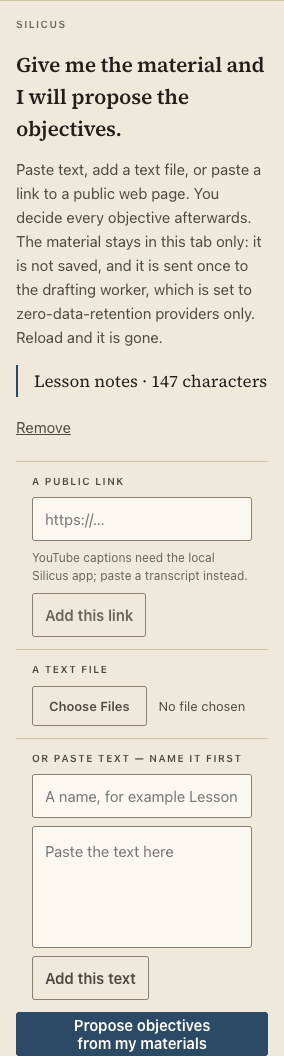
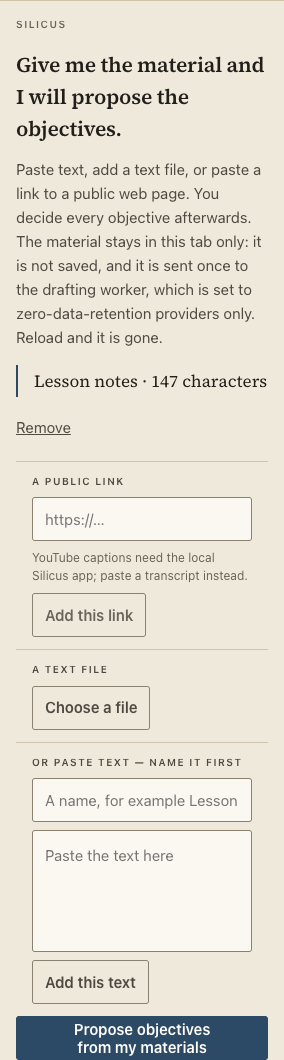
test+docs(narrow): the seventh defect, and the wide screen did not move
narrow-width.test.tsx grows two tests (272 total): the file chooser is out of the layout
and driven by a label, and it is still a labelled, reachable control.

docs/design/narrow-width.md records the seventh defect (the native control's truncated
status text, which the harness cannot measure), the wide-screen evidence - the 1440px
surface geometry is identical to the pre-fix build in all five states, and three of the
browser smoke's four full-page 1440px screenshots are byte-identical - the refreshed
proof screenshots, and the one new string ("Choose a file").

diff --git a/frontend/src/live/narrow-width.test.tsx b/frontend/src/live/narrow-width.test.tsx
@@ -78,7 +78,7 @@ describe("narrow widths — the stylesheet contract", () => {
 
   it("no control sets its own minimum width, so nothing pushes past the viewport", () => {
     const pairs: [string, string, string[]][] = [
-      ["OnboardingChat", intake, [".box", ".send", ".quiet", ".fileInput"]],
+      ["OnboardingChat", intake, [".box", ".send", ".quiet"]],
       ["LiveCourse", live, [".primaryButton"]],
       ["CourseLibrary", library, [".open"]],
     ];
@@ -87,9 +87,19 @@ describe("narrow widths — the stylesheet contract", () => {
         expect(rule(css, selector), `${name} ${selector}`).toMatch(/max-width:\s*100%/);
       }
     }
-    // A text field and the file chooser both take the column's width instead of their default.
+    // A text field takes the column's width instead of its own ~20-character default.
     expect(rule(intake, ".box")).toMatch(/width:\s*100%/);
-    expect(narrowBlock(intake)).toMatch(/\.fileInput\s*\{[^}]*width:\s*100%/);
+  });
+
+  it("the file chooser is a house-styled button, so no width can truncate its status text", () => {
+    // Chrome renders the native control's "No file chosen" and truncates it to "N...n" in a narrow
+    // column. The browser's own control is out of the layout and driven by a quiet label, the way
+    // the record band's Import is.
+    expect(rule(intake, ".fileHidden")).toMatch(/position:\s*absolute/);
+    expect(rule(intake, ".fileHidden")).toMatch(/width:\s*1px/);
+    expect(intake).toMatch(/\.fileHidden:focus-visible\s*\+\s*\.quiet/);
+    // A label used as a button must be a box for its 44px minimum to mean anything.
+    expect(rule(intake, ".quiet")).toMatch(/display:\s*inline-flex/);
   });
 
   it("a card that can sit in a row of buttons is allowed to shrink", () => {
@@ -129,6 +139,14 @@ describe("narrow widths — the honesty copy is untouched", () => {
   it("without zero retention the panel says the plain truth, not the claim", () => {
     render(<MaterialsPanel busy={false} zdr={null} onPropose={() => {}} />);
     expect(pageText()).toContain("under that provider's normal data-retention terms (not zero-retention), so use public material or material you may share");
+  });
+
+  it("the material panel's file chooser is still a labelled, reachable control", () => {
+    render(<MaterialsPanel busy={false} zdr onPropose={() => {}} />);
+    const chooser = screen.getByLabelText("A text file");
+    expect(chooser).toBe(document.querySelector('input[type="file"]'));
+    // The quiet label that drives it is on the page and names the act.
+    expect(screen.getByText("Choose a file")).toBeInTheDocument();
   });
 
   it("the student chat still says an answer is not evidence of learning", () => {

diff --git a/docs/design/narrow-width.md b/docs/design/narrow-width.md
@@ -50,6 +50,7 @@ belong to the parallel round.
 | 4 | Course library row | 320 px | Row content 214 > box 182 | The row's text column had no `min-width: 0`, so the long title's minimum width pushed the row |
 | 5 | Materials panel | 320 px | The whole section: left 52 → right **328** (276 px) where 216 px was available; the file input alone was 276 px | `input[type=file]`'s own default width set the card's minimum, and the panel — a flex item in a row of buttons — could not shrink below it |
 | 6 | Pinned copies row | 380 px | Status span left 290 → right **402**; row content 328 > box 234 | `.pinRow` is a four-column grid, `3rem 9rem 7rem 1fr` — 340 px of fixed columns, wider than the viewport |
+| 7 | Material panel, file chooser | 320 px | The browser's own "No file chosen" status truncated to **`N...n`** | Chrome's native file control has no room for its status text in a ~190 px column. Not caught by the harness: the text lives in the control's shadow DOM, so no `scrollWidth` reports it — found by looking at the screenshot |
 
 | State | 320 | 380 | 480 | 768 | 1440 |
 |---|---|---|---|---|---|
@@ -100,6 +101,21 @@ digest and what it says.
 the cards' from 20px to 16px, and the page's vertical pauses shrink — so a 320px window keeps a ~190px
 measure inside the card and a ~224px column on the page instead of spending 60% of its width on margins.
 
+**The file chooser is a house-styled button.** The browser's own control cannot survive a narrow column: at
+320px Chrome truncated its "No file chosen" status to `N...n`. It is now out of the layout and driven by a
+quiet **Choose a file** label — the same pattern the record band already uses for *Import* — so no width can
+truncate it, and the chosen file still appears by name in the list above as soon as it lands. The focus ring
+moves onto the button that drives it.
+
+## The wide screen did not move
+
+The harness records every surface's bounding box, so this is exact rather than a matter of looking: at
+**1440px the geometry is identical** between the pre-fix code and this branch, in all five states (landing,
+intake question, materials panel, full live course, delete confirm) — the same left and right edge for every
+surface. Of the four full-page screenshots the browser smoke takes at 1440px, three are byte-identical
+between the two builds; the fourth (`03-course-top.png`) differs only in the data each run mints — a fresh
+course UUID, pin digest and timeline timestamps — not in any layout band.
+
 ## Before / after
 
 | State | Width | `scrollWidth` vs `clientWidth` | Overflowing on my surfaces |
@@ -136,16 +152,17 @@ this round's, never scrolls sideways at any width.
 
 ## What is held by a test
 
-`frontend/src/live/narrow-width.test.tsx` — 10 tests. jsdom applies no CSS-module rules and no media queries,
+`frontend/src/live/narrow-width.test.tsx` — 12 tests. jsdom applies no CSS-module rules and no media queries,
 so the layout itself is proved in real Chrome by the harness; what is pinned here is the contract that made
 the narrow window broken, so it cannot come back quietly:
 
 - the masthead's promise is never hidden by a breakpoint, and the masthead wraps;
 - one narrow breakpoint (`40rem`) in every sheet it touches;
 - the classes holding the teacher's own words declare `overflow-wrap: anywhere`;
-- no control declares a width without `max-width: 100%` (text fields and the file chooser take the column);
+- no control declares a width without `max-width: 100%`; text fields take the column;
 - the wrappers that can sit in a row of buttons declare `min-width: 0`;
 - the pin row has a stacked narrow fallback; the steps line has its numbered fallback;
+- the file chooser is out of the layout and driven by a label (the truncation the harness cannot see);
 - **the honesty copy is byte-for-byte what it was** on the surfaces touched here — the material's retention
   sentence, the plain truth when the worker is not zero-retention, and the student chat's "Asking here is not
   evidence of learning, and nothing you ask is saved."
@@ -157,6 +174,11 @@ assurance line, the onboarding's "on this device" and "not sent to ASFAI" lines,
 retention paragraph, the student chat's not-evidence sentence, the record band's "this browser keeps the
 record". The only text that moves is the steps line's arrows becoming the list's own numbers below 40rem,
 which is typesetting, not wording.
+
+The one new string is **"Choose a file"**, the label that now drives the file chooser (it replaces the
+browser's own "Choose Files / No file chosen" control, which no width could keep whole). It names the act and
+nothing else — no claim about what happens to the file, because the panel's retention paragraph above it
+already says that, unchanged.
 
 ## Notes for the next round
 
